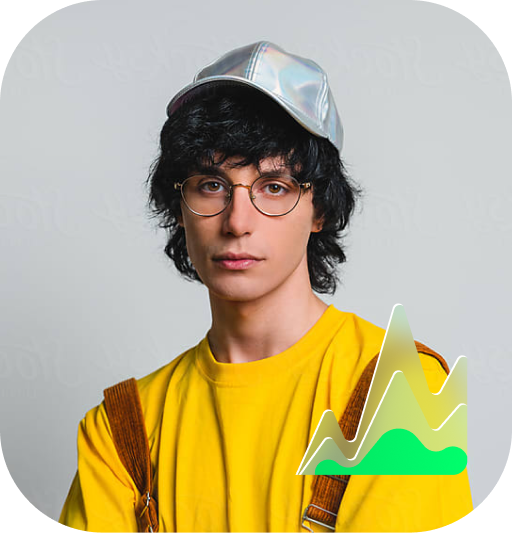
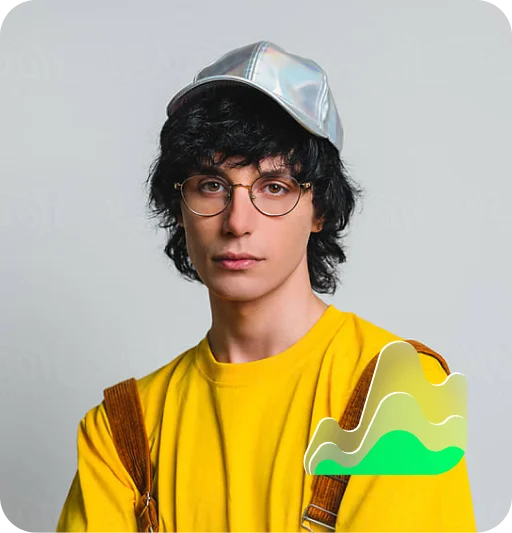
Kind subscription: new metric 2 art

diff --git a/projects/avito-charity/subscription/index.html b/projects/avito-charity/subscription/index.html
@@ -186,7 +186,7 @@ body {
             <div class="case-metric">
               <p class="case-metric__value">4 341</p>
               <p class="case-metric__label text-body-sm">Уникальный пользователь</p>
-              <div class="case-metric__art case-metric__art--end-inset" style="--art-scale: .5"><img src="media/metric-2.webp?v=2" alt="" aria-hidden="true" /></div>
+              <div class="case-metric__art case-metric__art--end-inset" style="--art-scale: .5"><img src="media/metric-2.webp?v=3" alt="" aria-hidden="true" /></div>
             </div>
             <div class="case-metric">
               <p class="case-metric__value">1,24 млн ₽</p>
